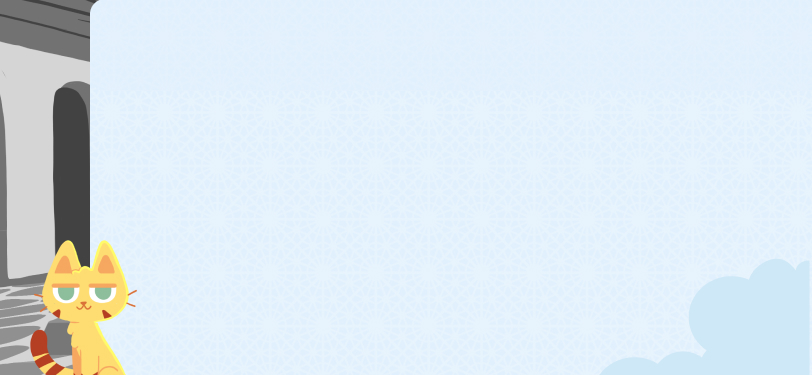
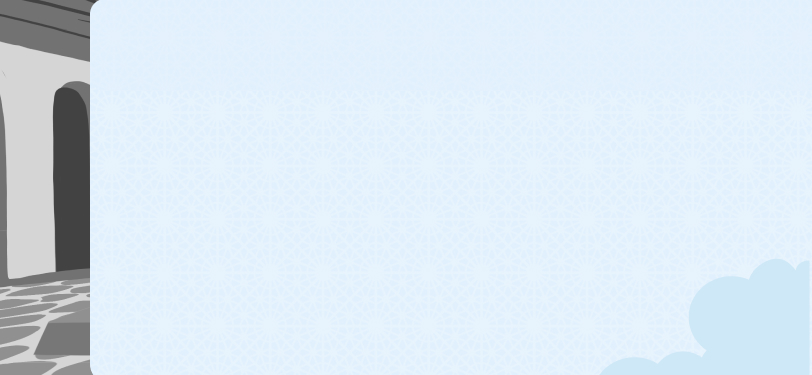
Replace video playback with GIFs in Exercise1 component, enhancing visual feedback for user answers. Update state management for result display and adjust layout for improved user experience.

Changed region(s): [[0.0308, 0.6453, 0.1847, 1.0]]

diff --git a/src/components/math/Exercise1.tsx b/src/components/math/Exercise1.tsx
@@ -23,7 +23,6 @@ const Exercise1 = () => {
   const MAX_RECORDING_DURATION = 60; // Maximum recording duration in seconds
   const [showResultVideo, setShowResultVideo] = useState(false);
   const [isCorrectAnswer, setIsCorrectAnswer] = useState(false);
-  const resultVideoRef = useRef<HTMLVideoElement>(null);
 
   useEffect(() => {
     generateRandomProblem();
@@ -31,13 +30,19 @@ const Exercise1 = () => {
   }, []);
 
   useEffect(() => {
-    if (showResultVideo && resultVideoRef.current) {
-      resultVideoRef.current.currentTime = 0;
-      resultVideoRef.current.play().catch((error) => {
-        console.error("Error playing video:", error);
-      });
+    if (showResultVideo) {
+      // Hide GIF after 3 seconds (adjust duration as needed)
+      const timer = setTimeout(() => {
+        setShowResultVideo(false);
+        if (isCorrectAnswer) {
+          // Correct answer: generate new problem
+          generateRandomProblem();
+        }
+      }, 3000);
+
+      return () => clearTimeout(timer);
     }
-  }, [showResultVideo]);
+  }, [showResultVideo, isCorrectAnswer]);
 
   const checkSpeechSupport = () => {
     // Check if speech synthesis is available
@@ -477,24 +482,6 @@ const Exercise1 = () => {
     }
     setIsCorrectAnswer(isCorrect);
     setShowResultVideo(true);
-
-    // Reset video to start if it exists
-    if (resultVideoRef.current) {
-      resultVideoRef.current.currentTime = 0;
-      resultVideoRef.current.play();
-    }
-  };
-
-  const handleVideoEnded = () => {
-    setShowResultVideo(false);
-
-    if (isCorrectAnswer) {
-      // Correct answer: generate new problem
-      generateRandomProblem();
-    } else {
-      // Incorrect answer: clear input field
-      setUserInput("");
-    }
   };
 
   return (
@@ -608,21 +595,20 @@ const Exercise1 = () => {
         />
       </div>
 
-      {/* Video in bottom left corner */}
+      {/* GIF in bottom left corner */}
       {!showResultVideo && (
         <div className="absolute bottom-4 left-4 z-10">
-          <video
-            src="/media/videos/WhatsApp Video 2025-10-30 at 12.31.19 PM.mp4"
-            autoPlay
-            loop
-            muted
-            playsInline
+          <img
+            src="/media/gifs/normal-unscreen.gif"
+            alt="Normal"
             className="rounded-lg shadow-lg"
             style={{
-              maxWidth: "200px",
+              maxWidth: "130px",
               maxHeight: "200px",
               position: "relative",
               top: "20px",
+              left: "20px",
+              boxShadow: "none",
             }}
           />
         </div>
@@ -1002,7 +988,7 @@ const Exercise1 = () => {
         </div>
       )}
 
-      {/* Result Video Overlay with Animation */}
+      {/* Result GIF Overlay with Animation */}
       {showResultVideo && (
         <div
           className="absolute bottom-4 left-4 z-50"
@@ -1010,23 +996,21 @@ const Exercise1 = () => {
             animation: "slideUp 0.5s ease-out forwards",
           }}
         >
-          <video
-            ref={resultVideoRef}
+          <img
             src={
               isCorrectAnswer
-                ? "/media/videos/WhatsApp Video 2025-10-30 at 12.31.27 PM.mp4"
-                : "/media/videos/WhatsApp Video 2025-10-30 at 12.31.38 PM.mp4"
+                ? "/media/gifs/happy-unscreen.gif"
+                : "/media/gifs/triste-unscreen.gif"
             }
-            autoPlay
-            muted
-            playsInline
-            onEnded={handleVideoEnded}
+            alt={isCorrectAnswer ? "Happy" : "Sad"}
             className="rounded-lg shadow-lg"
             style={{
-              maxWidth: "200px",
+              maxWidth: "130px",
               maxHeight: "200px",
               position: "relative",
-              top: "20px",
+              top: isCorrectAnswer ? "20px" : "15px",
+              left: "20px",
+              boxShadow: "none",
             }}
           />
         </div>
